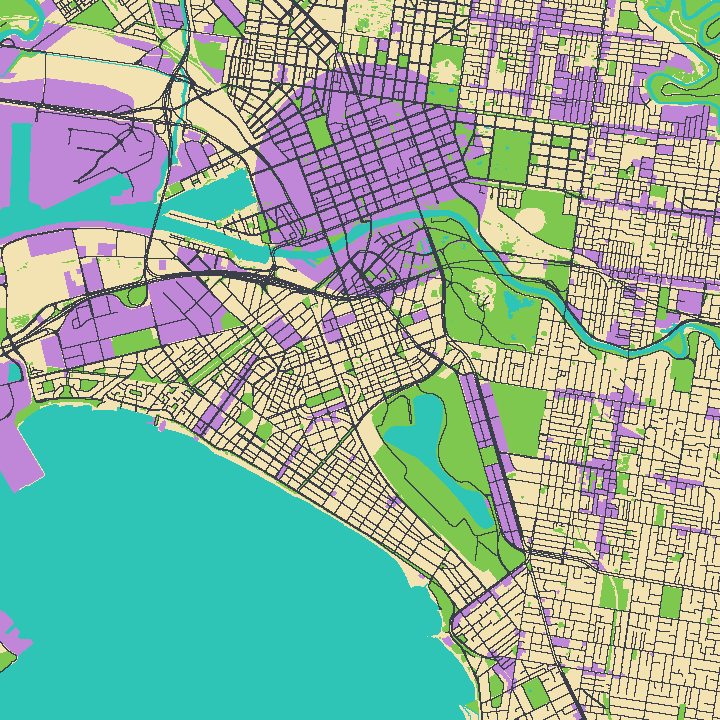
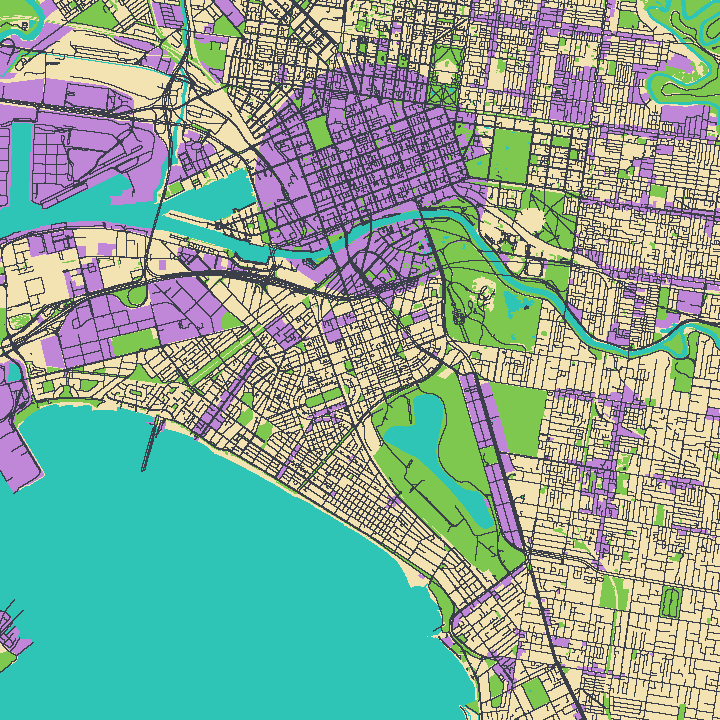
Overhaul roads: real access, denser network, coherent rendering
Roads had two problems: most buildings had no street frontage (only 24%
of commercial and 35% of suburban lots touched a road), and wide OSM
roads rasterized into a patchwork of fake intersection tiles over bare
sand.

Importer (map regenerated):
- Include service roads (Melbourne's laneways, industrial estate and
  docklands access roads; private driveways and parking aisles excluded)
  and pedestrian streets. Road-adjacent lots jump to 41% commercial /
  48% suburban, and roadless pockets drop by more than half.

Placement:
- Buildings only rise on lots with street frontage. Suburban lots with
  no adjacent road become the block's backyards (grass and trees);
  commercial cells more than two tiles from any road become open plazas.

Rendering:
- Wide-road cells (dual carriageways, big junctions) render as flat
  continuous asphalt instead of a patchwork of fake crossroad tiles;
  the tile models are kept for 1-wide streets, which OSM mostly is.
- Asphalt-colored ground under every road cell kills the sand seams.
- Zebra-crossing tiles on straight segments entering real intersections,
  and line-marked T/crossroad tiles.
- Asphalt tinted well below pavement gray so streets read as streets.

Claude-Session: https://claude.ai/code/session_019x5bxGWBADyxiwNKRF3sQP

diff --git a/src/world/City.ts b/src/world/City.ts
@@ -12,9 +12,15 @@ const SUBURBAN = 'abcdefghijklmnopqrstu'.split('').map((c) => `suburban/building
 const INDUSTRIAL = 'abcdefghijklmnopqrst'.split('').map((c) => `industrial/building-${c}`);
 const SMOKESTACK = 'industrial/chimney-medium';
 const TANK = 'industrial/detail-tank';
-const ROADS = ['road-straight', 'road-bend', 'road-intersection', 'road-crossroad', 'road-end', 'road-square'].map(
-  (n) => `roads/${n}`
-);
+const ROADS = [
+  'road-straight',
+  'road-crossing',
+  'road-bend',
+  'road-intersection-line',
+  'road-crossroad-line',
+  'road-end',
+  'road-square',
+].map((n) => `roads/${n}`);
 const TREES = ['suburban/tree-large', 'suburban/tree-small'];
 const STREETLIGHT = 'roads/light-curved';
 const FENCE = 'suburban/fence-3x3';
@@ -49,6 +55,20 @@ function isIndustrialDistrict(cx: number, cz: number): boolean {
 }
 
 /**
+ * True when a road cell is part of a wide-road area (OSM dual carriageways
+ * and big junctions rasterize to 2+ cells wide) rather than a 1-wide street
+ * the tile set can represent. Diagonal staircases of bends stay tiled: each
+ * of their cells has only 2 orthogonal road neighbors.
+ */
+function roadBlob(cx: number, cz: number): boolean {
+  const road = (dx: number, dz: number) => (cellAt(cx + dx, cz + dz) === '#' ? 1 : 0);
+  const n4 = road(0, -1) + road(1, 0) + road(0, 1) + road(-1, 0);
+  if (n4 < 3) return false;
+  const nd = road(-1, -1) + road(1, -1) + road(-1, 1) + road(1, 1);
+  return n4 + nd >= 5;
+}
+
+/**
  * Road tile orientation. Base connection masks (at rotY=0) were verified
  * against the Kenney models; a quarter turn rotY=+PI/2 maps direction
  * S->E, E->N, N->W, W->S.
@@ -62,8 +82,8 @@ function buildRoadTable(): Map<number, { model: string; rot: number }> {
   const bases: [string, number][] = [
     ['roads/road-straight', 5], // runs N-S
     ['roads/road-bend', 6], // connects E+S
-    ['roads/road-intersection', 7], // T: connects N+E+S
-    ['roads/road-crossroad', 15],
+    ['roads/road-intersection-line', 7], // T: connects N+E+S
+    ['roads/road-crossroad-line', 15],
     ['roads/road-end', 4], // connects S
     ['roads/road-square', 0],
   ];
@@ -126,6 +146,7 @@ export class City {
     pavement: new THREE.MeshStandardMaterial({ color: PALETTE.pavement }),
     grass: new THREE.MeshStandardMaterial({ color: PALETTE.grass }),
     sand: new THREE.MeshStandardMaterial({ color: PALETTE.sand }),
+    asphalt: new THREE.MeshStandardMaterial({ color: PALETTE.asphalt }),
     water: new THREE.MeshStandardMaterial({
       color: PALETTE.water,
       roughness: 0.15,
@@ -215,23 +236,50 @@ export class City {
         switch (cell) {
           case '#': {
             const mask = roadMask(cx, cz);
-            const { model, rot } = ROAD_TABLE.get(mask) ?? { model: 'roads/road-square', rot: 0 };
-            const { object } = this.game.assets.getFitted(model, { width: TILE });
-            object.position.set(x, -TILE * 0.02 + 0.002, z);
-            object.rotation.y = rot;
-            this.bake(object, model, buckets);
+            // Asphalt under every road cell: hides seams between tiles and is
+            // the whole surface of wide-road cells.
+            this.groundPlane(x, z, 'asphalt', buckets);
+            // OSM arterials rasterize 2+ cells wide; the tile set can only
+            // express 1-wide networks, so wide-road cells stay flat asphalt
+            // instead of becoming a patchwork of fake intersections.
+            if (!roadBlob(cx, cz)) {
+              let { model, rot } = ROAD_TABLE.get(mask) ?? { model: 'roads/road-square', rot: 0 };
+              // Zebra crossing on straight segments entering an intersection.
+              if (model === 'roads/road-straight' && this.nextToIntersection(cx, cz)) {
+                model = 'roads/road-crossing';
+              }
+              const { object } = this.game.assets.getFitted(model, { width: TILE });
+              object.position.set(x, -TILE * 0.02 + 0.002, z);
+              object.rotation.y = rot;
+              this.bake(object, model, buckets);
+            }
             this.streetlight(cx, cz, x, z, mask, buckets);
             this.maybeParkCar(cx, cz, x, z, mask, vehicles);
             break;
           }
           case 'C':
             this.groundPlane(x, z, 'pavement', buckets);
-            this.building(body, cx, cz, x, z, buckets);
+            if (roadMask(cx, cz) !== 0 || this.roadNear(cx, cz, 2)) {
+              this.building(body, cx, cz, x, z, buckets);
+            } else if (cellHash(cx, cz, 7) < 0.25) {
+              // Deep inside a roadless block: an open plaza, not a building
+              // nobody could ever reach.
+              this.tree(body, x + TILE * 0.2, z - TILE * 0.15, cx, cz, buckets);
+            }
             break;
           case 'S':
             this.groundPlane(x, z, 'grass', buckets);
-            this.building(body, cx, cz, x, z, buckets);
-            if (cellHash(cx, cz, 7) < 0.45) this.tree(body, x + TILE * 0.38, z + TILE * 0.38, cx, cz, buckets);
+            if (roadMask(cx, cz) !== 0) {
+              this.building(body, cx, cz, x, z, buckets);
+              if (cellHash(cx, cz, 7) < 0.45) this.tree(body, x + TILE * 0.38, z + TILE * 0.38, cx, cz, buckets);
+            } else {
+              // Lots with no street frontage are the block's backyards.
+              for (let i = 0, n = 1 + (cellHash(cx, cz, 9) < 0.4 ? 1 : 0); i < n; i++) {
+                const ox = (cellHash(cx, cz, 10 + i) - 0.5) * TILE * 0.7;
+                const oz = (cellHash(cx, cz, 20 + i) - 0.5) * TILE * 0.7;
+                this.tree(body, x + ox, z + oz, cx, cz + i, buckets);
+              }
+            }
             break;
           case 'P':
             this.groundPlane(x, z, 'grass', buckets);
@@ -297,6 +345,29 @@ export class City {
       }
     }
     this.chunks.delete(chunkKey(chunk.kx, chunk.kz));
+  }
+
+  /** True when a 4-neighbor road cell is a genuine (non-blob) T or crossroad. */
+  private nextToIntersection(cx: number, cz: number): boolean {
+    for (const [dx, dz] of [[0, -1], [1, 0], [0, 1], [-1, 0]] as const) {
+      const nx = cx + dx;
+      const nz = cz + dz;
+      if (cellAt(nx, nz) !== '#' || roadBlob(nx, nz)) continue;
+      const m = roadMask(nx, nz);
+      const branches = (m & 1 ? 1 : 0) + (m & 2 ? 1 : 0) + (m & 4 ? 1 : 0) + (m & 8 ? 1 : 0);
+      if (branches >= 3) return true;
+    }
+    return false;
+  }
+
+  /** True when any road cell lies within chebyshev distance r. */
+  private roadNear(cx: number, cz: number, r: number): boolean {
+    for (let dz = -r; dz <= r; dz++) {
+      for (let dx = -r; dx <= r; dx++) {
+        if (cellAt(cx + dx, cz + dz) === '#') return true;
+      }
+    }
+    return false;
   }
 
   private maybeParkCar(cx: number, cz: number, x: number, z: number, mask: number, vehicles: Vehicle[]): void {
@@ -541,7 +612,7 @@ export class City {
     }
   }
 
-  private groundPlane(x: number, z: number, kind: 'pavement' | 'grass', buckets: Buckets): void {
+  private groundPlane(x: number, z: number, kind: 'pavement' | 'grass' | 'asphalt', buckets: Buckets): void {
     const geo = new THREE.PlaneGeometry(TILE, TILE);
     geo.applyMatrix4(
       new THREE.Matrix4()

diff --git a/src/core/Game.ts b/src/core/Game.ts
@@ -76,9 +76,10 @@ export class Game {
     this.hud.setPlayerCount(1);
 
     this.setupEnvironment();
-    // The Kenney asphalt is nearly sand-colored; cool it down so streets read.
+    // The Kenney asphalt is nearly sand-colored; darken it well below the
+    // pavement gray so streets read as streets against the sidewalks.
     for (const name of CITY_ASSETS) {
-      if (name.startsWith('roads/road-')) this.assets.tint(name, 0x9fa3b0);
+      if (name.startsWith('roads/road-')) this.assets.tint(name, 0x666c7c);
     }
     this.city = new City(this);
     const spawn = getAuthoredMap()?.spawn ?? { x: 3, z: 24 };

diff --git a/src/core/const.ts b/src/core/const.ts
@@ -25,6 +25,7 @@ export const PALETTE = {
   water: 0x2ec4b6,
   sand: 0xf4e3b2,
   pavement: 0x9a93a8,
+  asphalt: 0x4e5560,
   grass: 0x7ec850,
   night: 0x1a1030,
 };